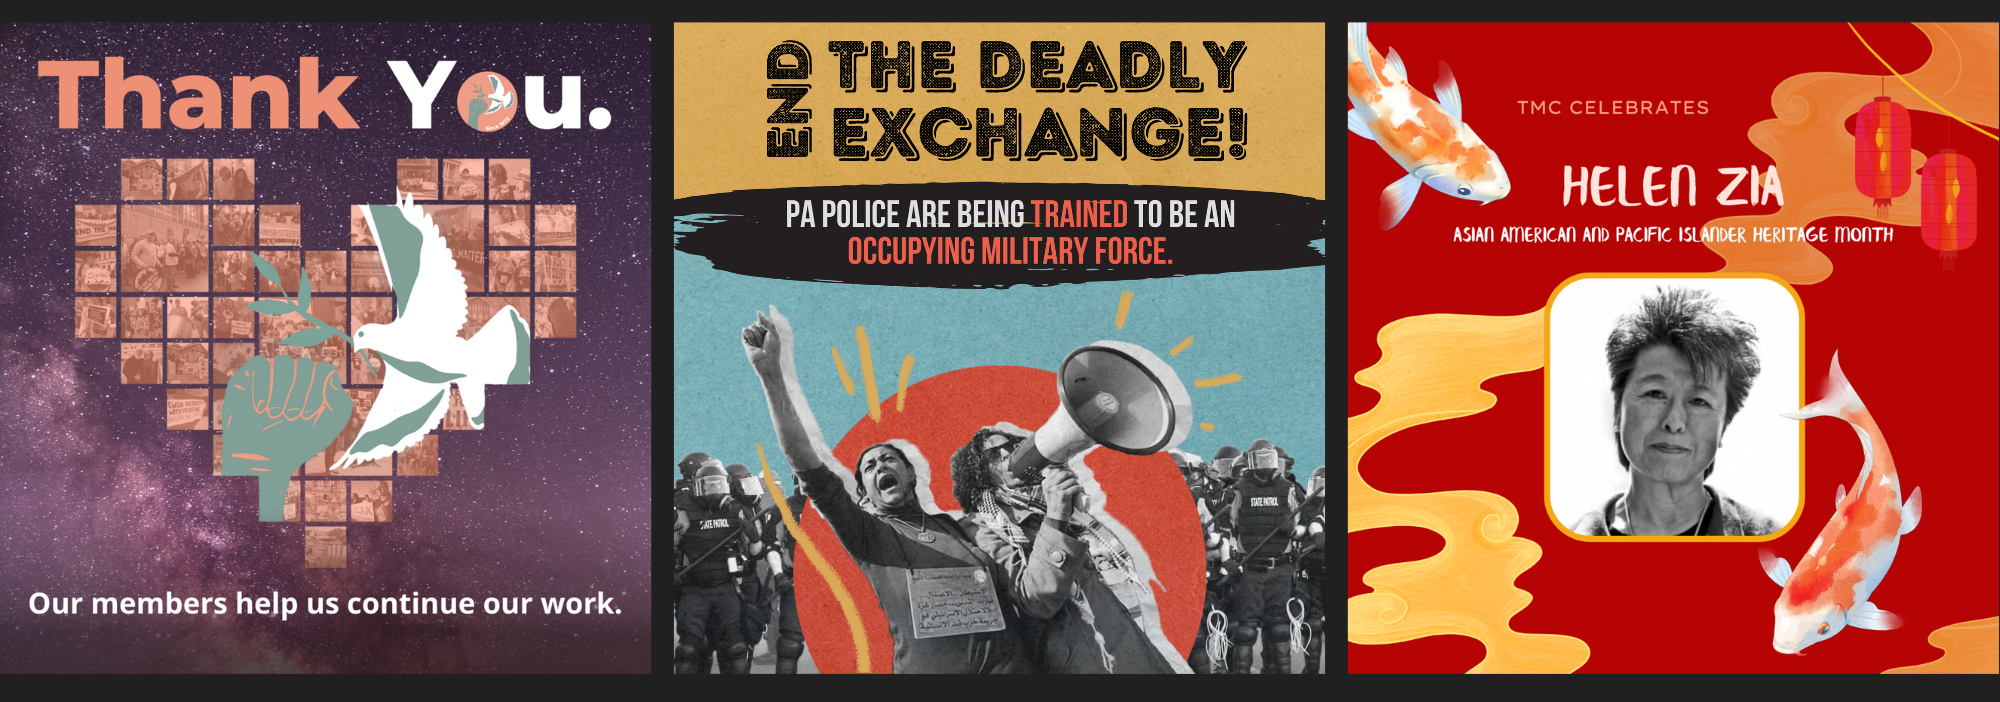
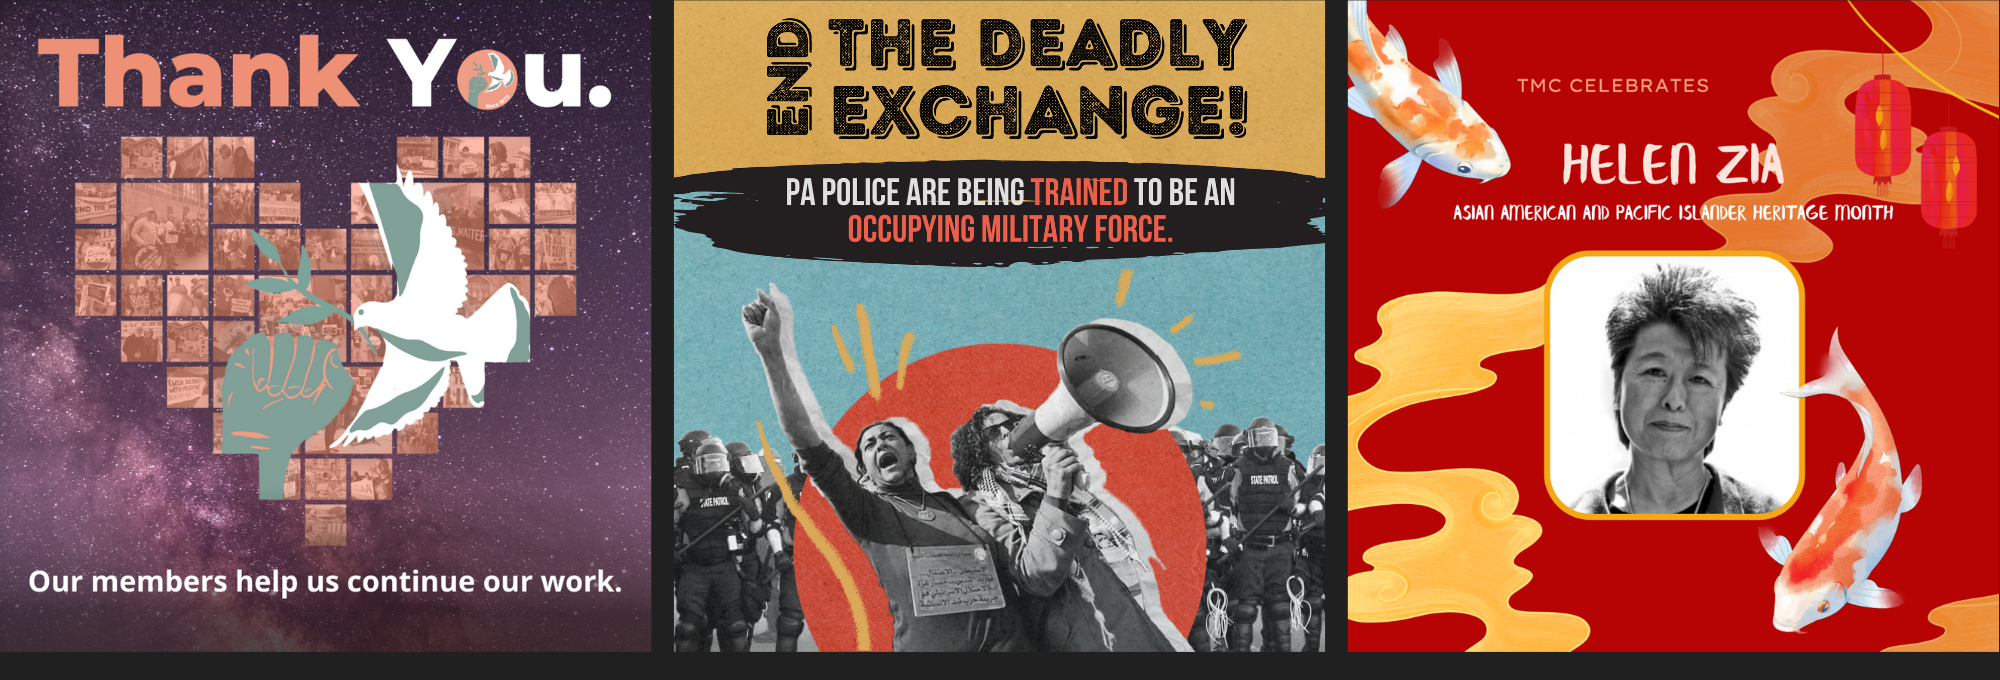
galllery image crop padding

diff --git a/gallery.html b/gallery.html
@@ -56,8 +56,8 @@
 
 
                 <div id="artwork" class="row pt-5">
-                  <img src="images/gallery/artwork 1.png" class="img-fluid tag-load" alt="arylic painting of girl wearing a crown of plants, oil painting of a older cowboy playing an accordion, oil painting of a red haired girl with her hand raised to shade her face">
-                  <img src="images/gallery/artwork 2.png" class="img-fluid tag-load" alt="oil painting of young boy with swallowtails flying around him, oil painting of sunflower field against a blue cloudy sky">
+                  <img src="images/gallery/artwork 1.png" class="img-fluid tag-load pb-4" alt="arylic painting of girl wearing a crown of plants, oil painting of a older cowboy playing an accordion, oil painting of a red haired girl with her hand raised to shade her face">
+                  <img src="images/gallery/artwork 2.png" class="img-fluid tag-load pb-4" alt="oil painting of young boy with swallowtails flying around him, oil painting of sunflower field against a blue cloudy sky">
                   <img src="images/gallery/artwork 3.png" class="img-fluid tag pb-4" alt="oil painting of peaches hanging from a leafy branch, oil painting of water lillies and lilypads, charcoal artwork of a young man solemnly holding a lion mask ">
                   <img src="images/gallery/artwork 4.png" class="img-fluid tag pb-4" alt="oil painting of older chinese woman wearing a mask and cutting fruit, oil painting of two Moomin characters standing on a windy slope against a cloudy blue sky, charcoal and pencil illustration of a dog tearing meat contained inside the shape of a falling swallowtail">
 
@@ -65,9 +65,9 @@
                 
                 <div id="graphic_design" class="row pt-5">
                   <img src="images/gallery/EEFCFCU.png" class="img-fluid tag pb-4" alt="various graphics including a poster, social media posts and a brochure created for the East End Food Co-op">
-                  <img src="images/gallery/Poster.png" class="img-fluid tag" alt="poster for Pittsburgh Arts & Lectures, storyboard poster for Momento, poster for The Devil is a Lie theater performance">
-                  <img src="images/gallery/colcom lemons.png" class="img-fluid tag pb-2" alt="billboard graphic for Thomas Merton advocating for immigrant support, editorial graphic of girl surrounded by lemons and plants">
-                  <img src="images/gallery/TMC.png" class="img-fluid tag" alt="social media graphic for Thomas Merton Center thanking members for support, graphic for End the Deadly Exchange, social media graphic celebrating Helen Zia for AAPI month">
+                  <img src="images/gallery/Poster.png" class="img-fluid tag pb-4" alt="poster for Pittsburgh Arts & Lectures, storyboard poster for Momento, poster for The Devil is a Lie theater performance">
+                  <img src="images/gallery/colcom lemons.png" class="img-fluid tag pb-4" alt="billboard graphic for Thomas Merton advocating for immigrant support, editorial graphic of girl surrounded by lemons and plants">
+                  <img src="images/gallery/TMC.png" class="img-fluid tag pb-4" alt="social media graphic for Thomas Merton Center thanking members for support, graphic for End the Deadly Exchange, social media graphic celebrating Helen Zia for AAPI month">
 
                 </div>
       
